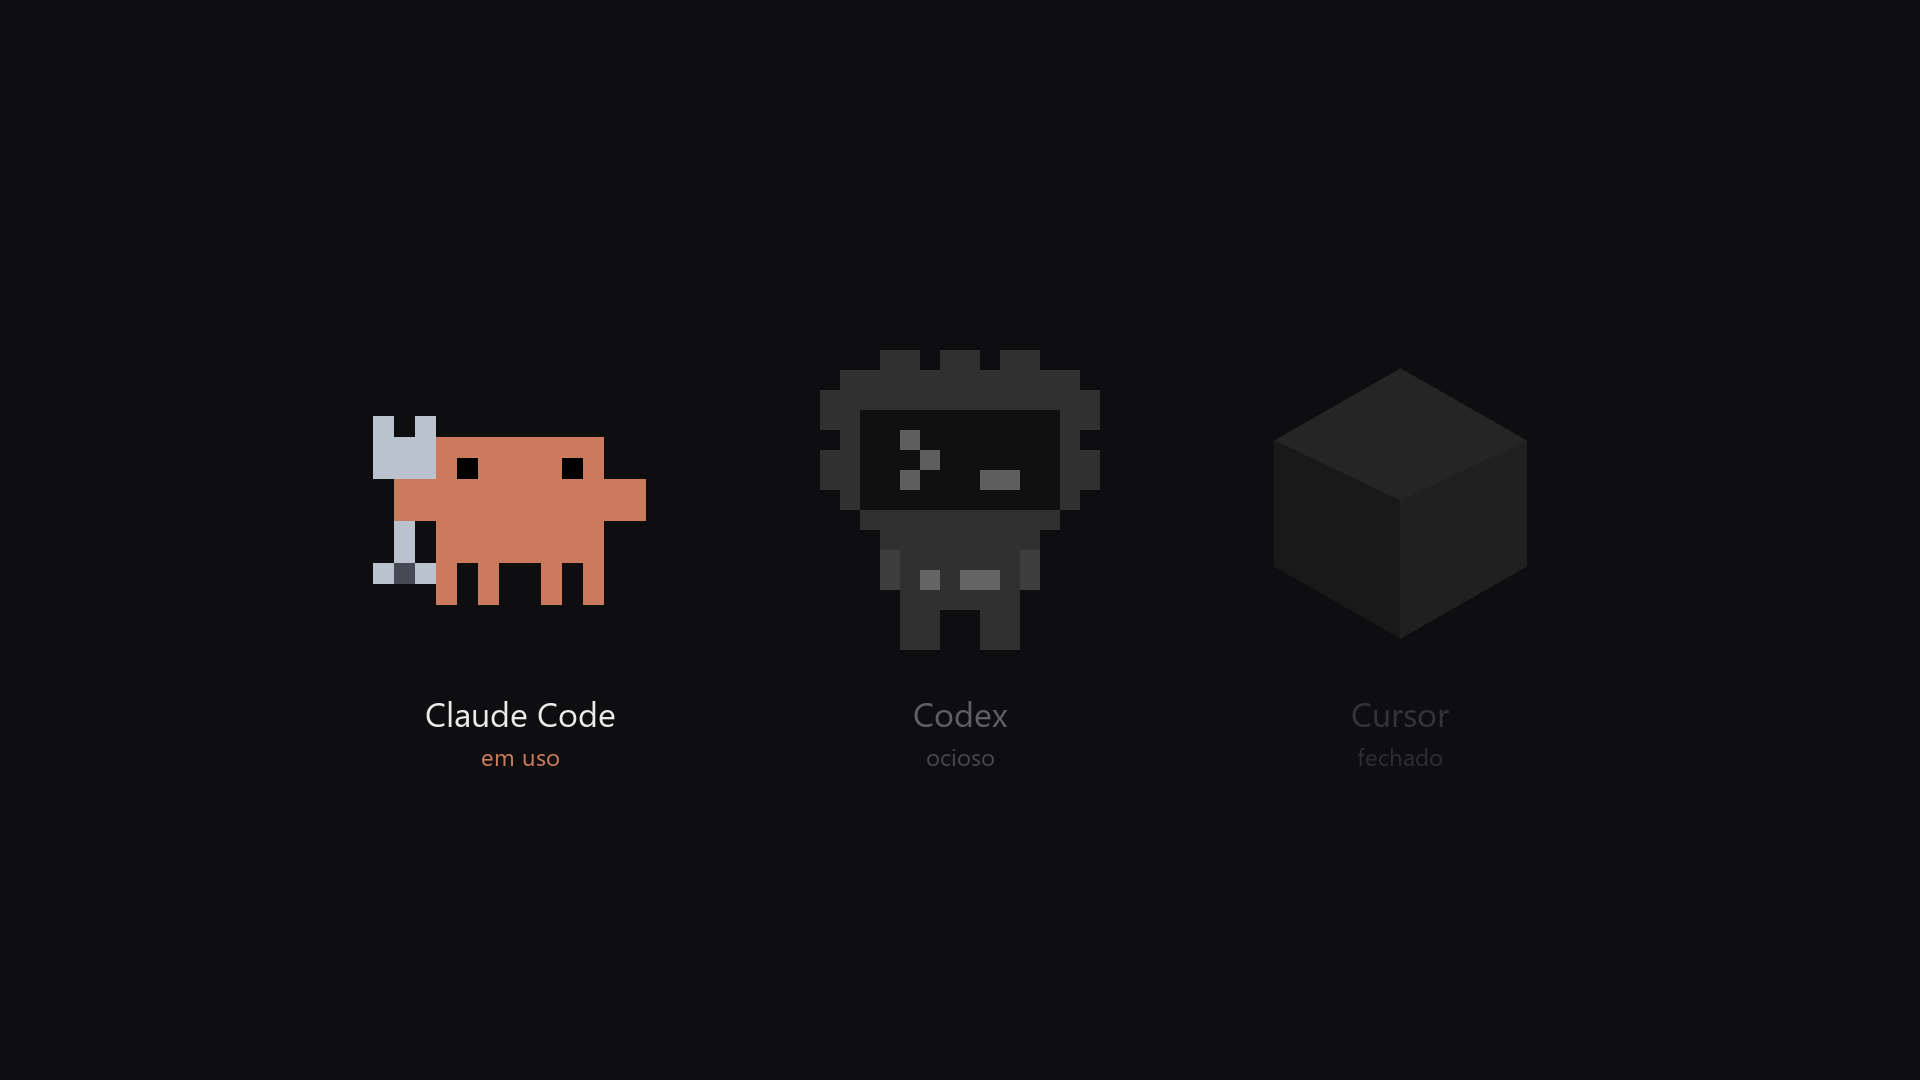
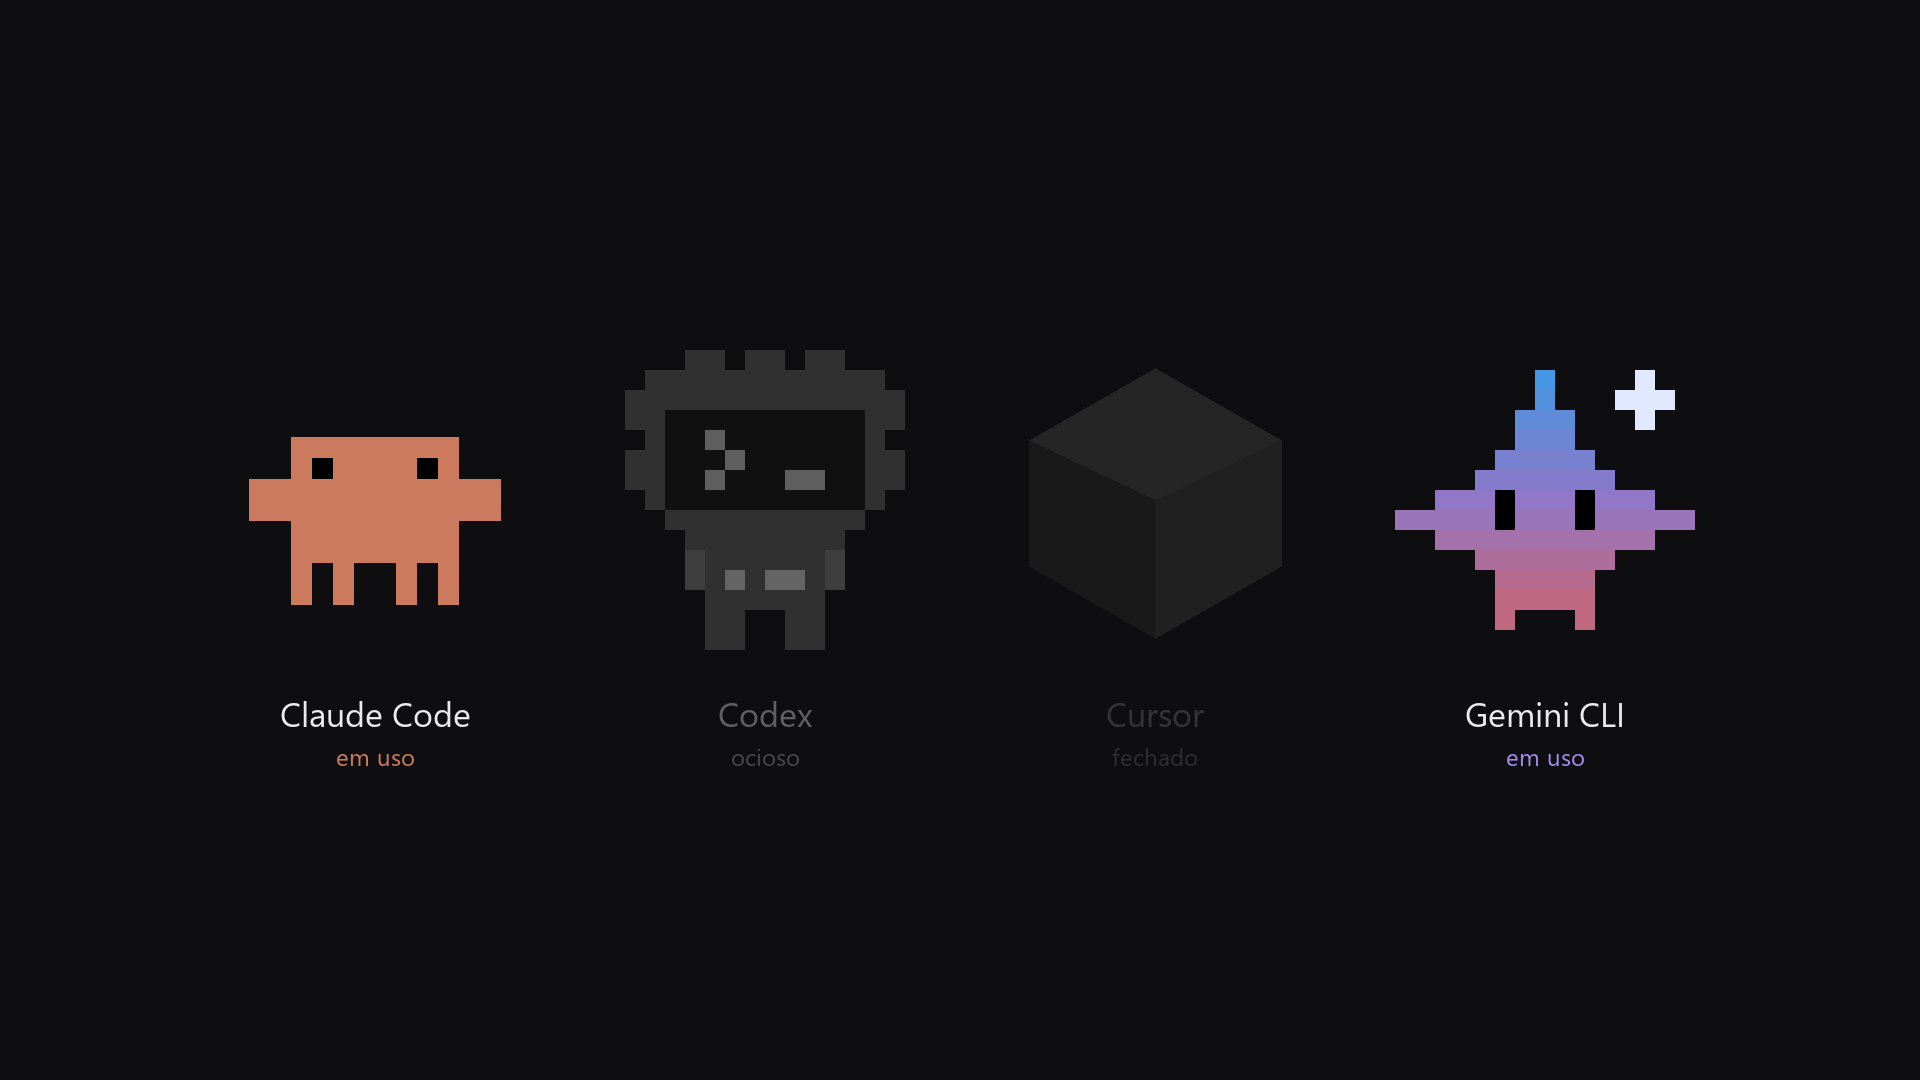
Atualiza as imagens do README com o Gemini CLI
As capturas da tela de bloqueio e da janela de configurações agora
mostram os quatro mascotes, nos visuais padrão.

diff --git a/README.md b/README.md
@@ -6,7 +6,7 @@
 
 Mascotes na tela de bloqueio e no protetor de tela do Windows (e, a partir do código-fonte, do macOS) que mostram, num relance, quais assistentes de código você está usando: **Claude Code**, **Codex**, **Cursor** e **Gemini CLI**.
 
-![Lock screen com os três mascotes em uso](docs/lock-all-active.png)
+![Lock screen com os quatro mascotes em uso](docs/lock-all-active.png)
 
 | Estado | Como aparece |
 | --- | --- |
